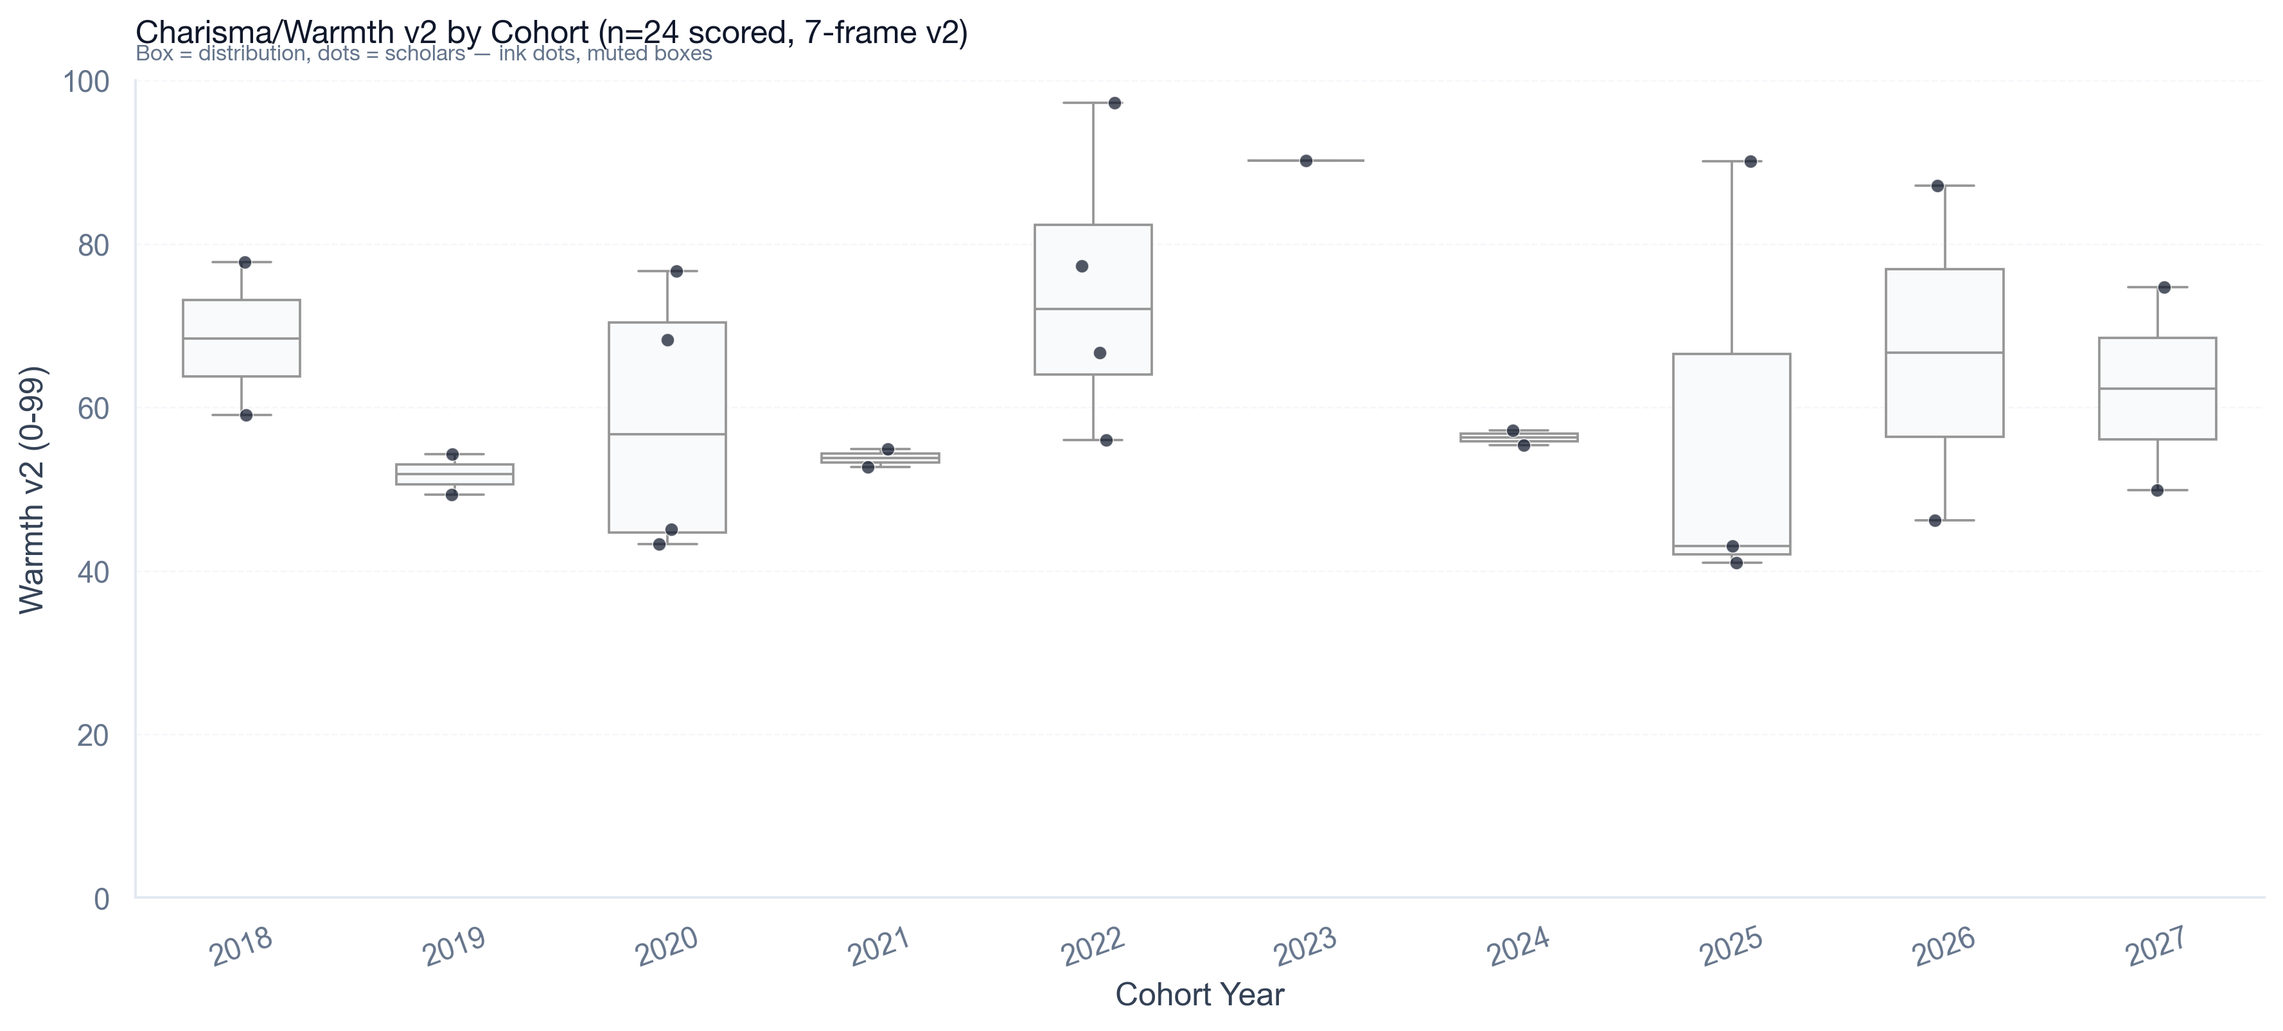
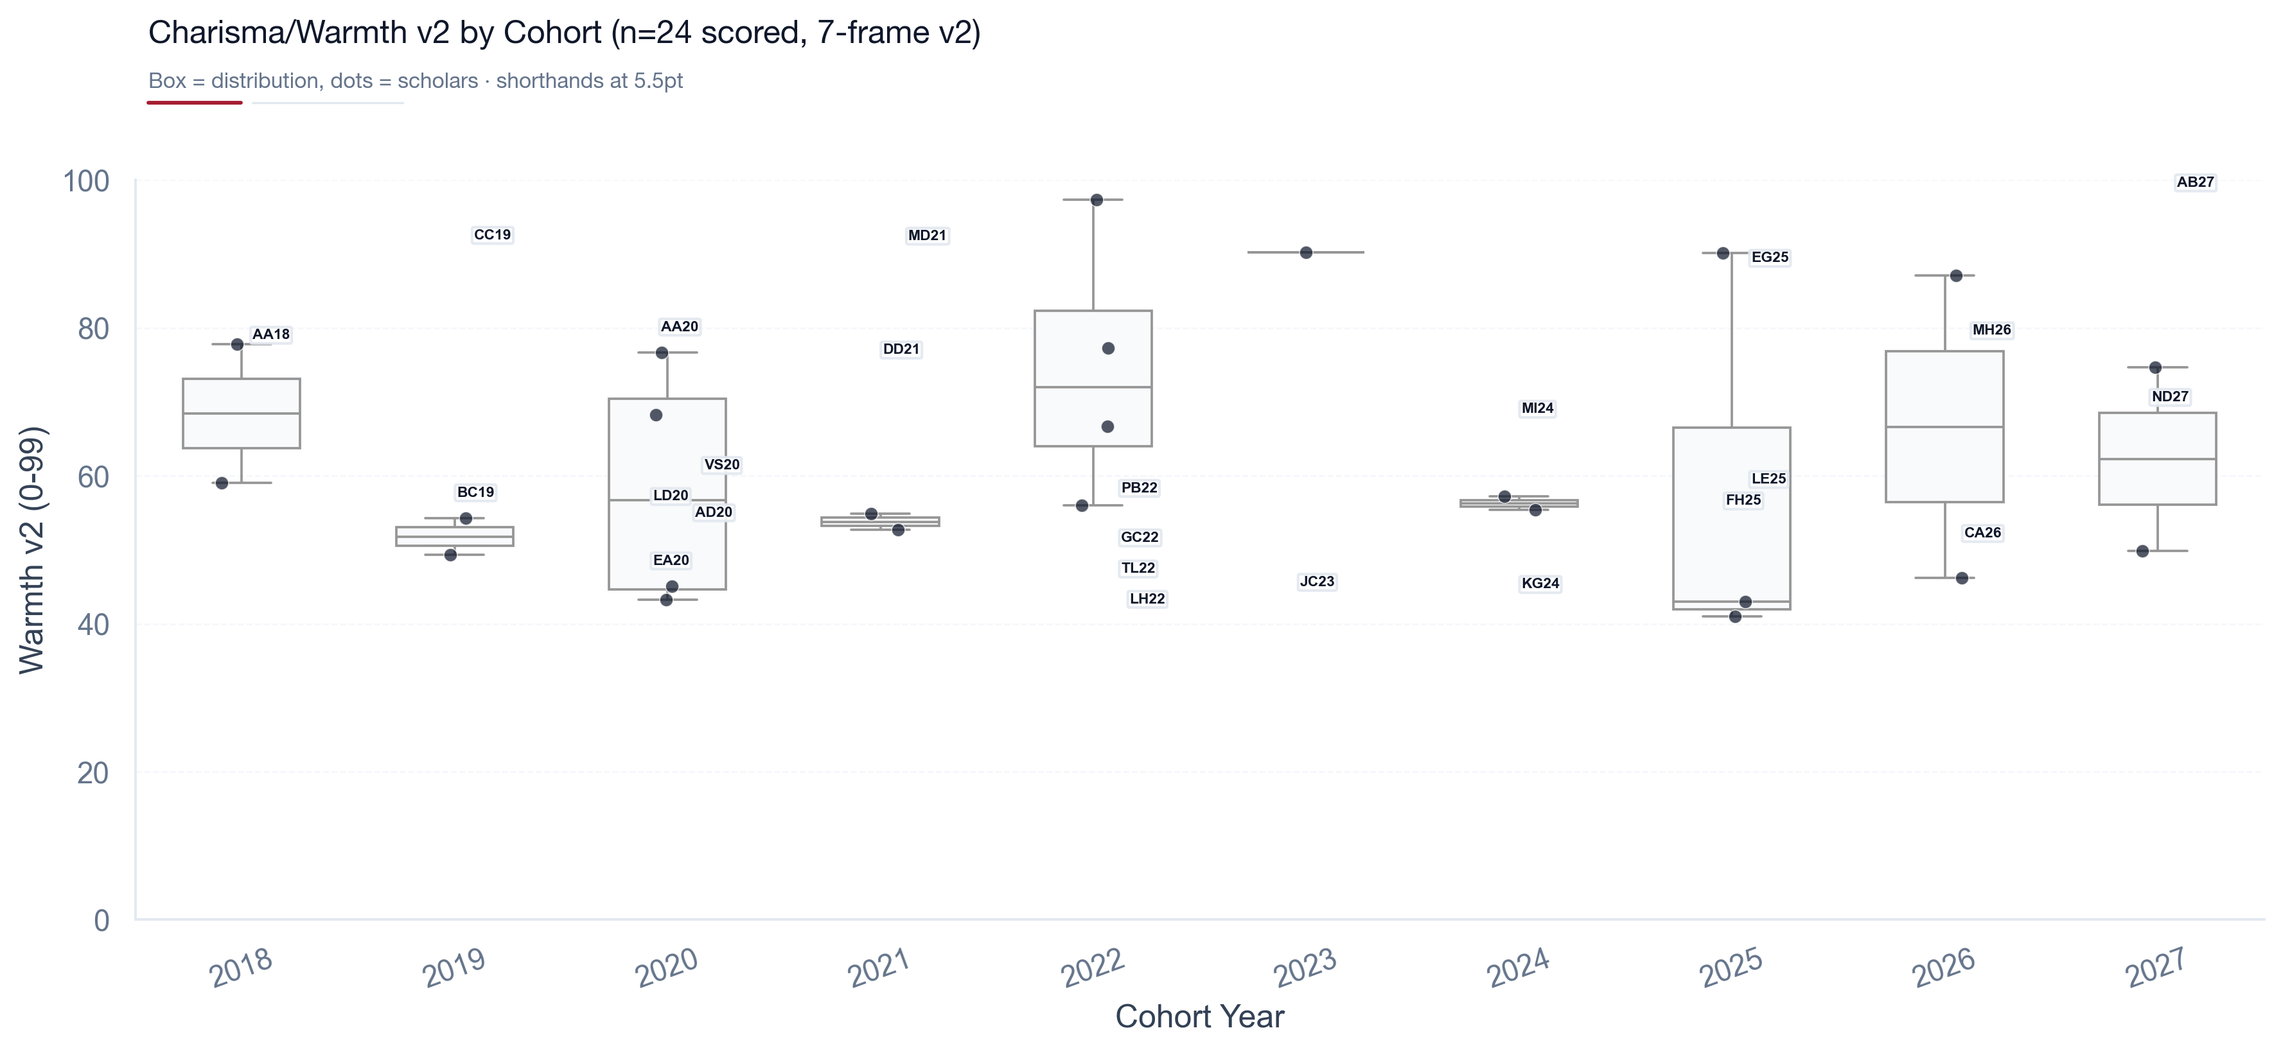
readme: hybrid 4K as Figure 1 appetizer + full 74-code legend disclosed
- README.md: schwarzman_hybrid_4K.png now opener right after TOC (Figure 1 academic appetizer, area=word freq, bridge 970) — was buried; retains Red tag
- README.md: collapsible details discloses all 74 shorthands (AA18→XR27, 73 vids, SL26/SL27 share) with table from data/video_legend.csv (shorthand/name/cohort/country/region/has_bio/warmth)
- warmth_vs_sentiment.png + charisma_by_cohort.png now label every dot at 6pt/5.5pt with white bbox (slate→crimson), title/subtitle fixed via fig.text (no overlap)
- bios_clusters_pca.png + warmth_distribution etc re-saved with ensemble y=1.12 pad32

diff --git a/generate_plots.py b/generate_plots.py
@@ -239,19 +239,53 @@ try:
         ss.style_axes(ax, title=f"Warmth Distribution (n={n}, v2)")
         ax.set_xlabel("Warmth v2"); ax.set_ylabel("Count"); ax.legend()
         plt.tight_layout(); plt.savefig(ROOT / "warmth_distribution.png", dpi=ss.SAVEDPI, bbox_inches="tight", facecolor=ss.CANVAS); plt.close("all")
-        # scatter — slate→crimson cmap (replaces Blues), crimson/ink guides
+        # scatter — slate→crimson cmap + tiny shorthands (all 24 at 6pt, offset to avoid covering dots)
+        # build shorthand map from video_legend.csv for the 24 scored
+        try:
+            _leg = pd.read_csv(ROOT / "data" / "video_legend.csv", encoding="utf-8")
+            _scored = _leg[_leg["warmth_v2"].notna()][["warmth_v2","sentiment","shorthand"]].copy()
+            _scored["warmth_v2"] = pd.to_numeric(_scored["warmth_v2"], errors="coerce")
+            _scored["sentiment"] = pd.to_numeric(_scored["sentiment"], errors="coerce")
+        except:
+            _scored = None
         fig, ax = plt.subplots(figsize=(11, 5.5))
         sc = ax.scatter(rec_df["warmth"], rec_df["sentiment"], c=rec_df["warmth"], cmap=ss.CMAP_WARMTH, s=68, edgecolor=ss.CANVAS, linewidth=0.6, alpha=0.88)
         plt.colorbar(sc, ax=ax, label="Warmth v2")
         ax.axhline(0.10, color=ss.MUTED, linestyle="--", linewidth=0.9, label="sentiment >0.10")
         ax.axvline(70, color=ss.SCHWARZMAN_RED, linestyle="--", linewidth=0.9, label="warmth 70")
-        ss.style_axes(ax, title=f"Warmth v2 vs. Vocal Sentiment (n={n}, Whisper tiny - TextBlob)", subtitle="Slate to crimson encodes warmth - warmer = darker/redder (Ref 1 area logic)", grid_axis="both")
-        ax.set_xlabel("Warmth v2 (0-99)"); ax.set_ylabel("Sentiment polarity (-1…1)"); ax.legend(); ax.grid(True, alpha=0.18, color=ss.BORDER, linestyle="--", linewidth=0.6)
-        plt.tight_layout(); plt.savefig(OUT / "warmth_vs_sentiment.png", dpi=ss.SAVEDPI, bbox_inches="tight", facecolor=ss.CANVAS); plt.close("all")
-        print("saved warmth_vs_sentiment.png")
+        # annotate each point with shorthand at 6pt, offset NE
+        if _scored is not None and len(_scored)==len(rec_df):
+            for _, r in _scored.iterrows():
+                ax.annotate(str(r["shorthand"]), (r["warmth_v2"], r["sentiment"]), fontsize=6, weight="bold", color=ss.INK,
+                            xytext=(4,4), textcoords="offset points", ha="left", va="bottom",
+                            bbox=dict(facecolor="white", edgecolor=ss.BORDER, boxstyle="round,pad=0.15", alpha=0.88))
+        else:
+            for _, r in rec_df.iterrows():
+                ax.annotate(f"{r['warmth']:.0f}", (r["warmth"], r["sentiment"]), fontsize=5, color=ss.MUTED, xytext=(3,3), textcoords="offset points")
+        # manual title block to avoid overlap (fig.text at 0.96/0.92 + red rule like custom_pca)
+        ss.style_axes(ax, grid_axis="both")
+        ax.set_xlabel("Warmth v2 (0-99)"); ax.set_ylabel("Sentiment polarity (-1…1)")
+        ax.legend(fontsize=7, frameon=True, facecolor=ss.CANVAS, edgecolor=ss.BORDER)
+        ax.grid(True, alpha=0.18, color=ss.BORDER, linestyle="--", linewidth=0.6)
+        fig.text(0.07, 0.96, f"Warmth v2 vs. Vocal Sentiment (n={n}, Whisper tiny - TextBlob)", fontsize=12, color=ss.INK, fontweight="bold", fontfamily=ss.SANS[0], ha="left", va="bottom")
+        fig.text(0.07, 0.92, "Slate to crimson encodes warmth - warmer = darker/redder · shorthands at 6pt", fontsize=8, color=ss.MUTED, fontfamily=ss.SANS[0], ha="left", va="bottom")
+        fig.add_artist(plt.Line2D([0.07, 0.11], [0.91, 0.91], transform=fig.transFigure, color=ss.SCHWARZMAN_RED, linewidth=1.4))
+        fig.add_artist(plt.Line2D([0.115, 0.18], [0.91, 0.91], transform=fig.transFigure, color=ss.BORDER, linewidth=0.8))
+        fig.tight_layout(rect=[0,0,1,0.88]); plt.savefig(OUT / "warmth_vs_sentiment.png", dpi=ss.SAVEDPI, bbox_inches="tight", facecolor=ss.CANVAS); plt.close("all")
+        print("saved warmth_vs_sentiment.png with shorthands")
         fig, ax = plt.subplots(figsize=(11, 5.5))
-        sc = ax.scatter(rec_df["warmth"], rec_df["sentiment"], c=rec_df["warmth"], cmap=ss.CMAP_WARMTH, s=68, edgecolor=ss.CANVAS, linewidth=0.6, alpha=0.88); plt.colorbar(sc, ax=ax, label="Warmth v2"); ax.axhline(0.10, color=ss.MUTED, linestyle="--", linewidth=0.9); ax.axvline(70, color=ss.SCHWARZMAN_RED, linestyle="--", linewidth=0.9); ss.style_axes(ax, title=f"Warmth v2 vs Sentiment (n={n})", grid_axis="both"); ax.set_xlabel("Warmth v2"); ax.set_ylabel("Sentiment"); plt.tight_layout(); plt.savefig(ROOT / "warmth_vs_sentiment.png", dpi=ss.SAVEDPI, bbox_inches="tight", facecolor=ss.CANVAS); plt.close("all")
-        # by cohort — muted boxes, ink strip
+        sc = ax.scatter(rec_df["warmth"], rec_df["sentiment"], c=rec_df["warmth"], cmap=ss.CMAP_WARMTH, s=68, edgecolor=ss.CANVAS, linewidth=0.6, alpha=0.88); plt.colorbar(sc, ax=ax, label="Warmth v2"); ax.axhline(0.10, color=ss.MUTED, linestyle="--", linewidth=0.9); ax.axvline(70, color=ss.SCHWARZMAN_RED, linestyle="--", linewidth=0.9)
+        if _scored is not None and len(_scored)==len(rec_df):
+            for _, r in _scored.iterrows():
+                ax.annotate(str(r["shorthand"]), (r["warmth_v2"], r["sentiment"]), fontsize=6, weight="bold", color=ss.INK, xytext=(4,4), textcoords="offset points", ha="left", va="bottom", bbox=dict(facecolor="white", edgecolor=ss.BORDER, boxstyle="round,pad=0.15", alpha=0.88))
+        ss.style_axes(ax, grid_axis="both"); ax.set_xlabel("Warmth v2"); ax.set_ylabel("Sentiment")
+        fig = plt.gcf()
+        fig.text(0.07, 0.96, f"Warmth v2 vs Sentiment (n={n})", fontsize=12, color=ss.INK, fontweight="bold", fontfamily=ss.SANS[0], ha="left", va="bottom")
+        fig.text(0.07, 0.92, "Slate to crimson · 6pt shorthands", fontsize=8, color=ss.MUTED, fontfamily=ss.SANS[0], ha="left", va="bottom")
+        fig.add_artist(plt.Line2D([0.07, 0.11], [0.91, 0.91], transform=fig.transFigure, color=ss.SCHWARZMAN_RED, linewidth=1.4))
+        fig.add_artist(plt.Line2D([0.115, 0.18], [0.91, 0.91], transform=fig.transFigure, color=ss.BORDER, linewidth=0.8))
+        fig.tight_layout(rect=[0,0,1,0.88]); plt.savefig(ROOT / "warmth_vs_sentiment.png", dpi=ss.SAVEDPI, bbox_inches="tight", facecolor=ss.CANVAS); plt.close("all")
+        # by cohort — muted boxes, ink strip + tiny shorthands (6pt, offset)
         if rec_df["cohort"].notna().any() and any(c.strip() for c in rec_df["cohort"]):
             fig, ax = plt.subplots(figsize=(12, 5.5))
             order = sorted([c for c in rec_df["cohort"].unique() if c.strip()])
@@ -267,22 +301,61 @@ try:
                 # fallback bare matplotlib
                 groups = [rec_df[rec_df["cohort"] == c]["warmth"].values for c in order]
                 bp = ax.boxplot(groups, labels=order, patch_artist=True, boxprops=dict(facecolor=ss.PANEL, edgecolor=ss.BORDER), medianprops=dict(color=ss.SCHWARZMAN_RED))
-            ss.style_axes(ax, title=f"Charisma/Warmth v2 by Cohort (n={n} scored, 7-frame v2)", subtitle="Box = distribution, dots = scholars — ink dots, muted boxes", grid_axis="y")
+            # annotate each dot with shorthand (offset so white bbox doesn't cover dot)
+            if _scored is not None and "cohort" not in _scored.columns:
+                try:
+                    _leg2 = pd.read_csv(ROOT / "data" / "video_legend.csv", encoding="utf-8")
+                    _scored2 = _leg2[_leg2["warmth_v2"].notna()][["cohort","warmth_v2","shorthand"]].copy()
+                    _scored2["warmth_v2"] = pd.to_numeric(_scored2["warmth_v2"], errors="coerce")
+                except:
+                    _scored2 = None
+            else:
+                _scored2 = _scored
+            if _scored2 is not None:
+                # build cohort -> x position map
+                pos = {c:i for i,c in enumerate(order)}
+                for _, r in _scored2.iterrows():
+                    coh = str(r["cohort"]); 
+                    if coh not in pos: continue
+                    # jitter stripplot by ~0.15, so offset a bit to avoid exact overlap
+                    import random, numpy as np
+                    jitter = (hash(r["shorthand"]) % 7 - 3) * 0.04  # deterministic jitter approx
+                    x = pos[coh] + jitter
+                    ax.annotate(str(r["shorthand"]), (x, r["warmth_v2"]), fontsize=5.5, weight="bold", color=ss.INK,
+                                xytext=(4,4), textcoords="offset points", ha="left", va="bottom",
+                                bbox=dict(facecolor="white", edgecolor=ss.BORDER, boxstyle="round,pad=0.12", alpha=0.88))
+            # manual title block to avoid overlap
+            ss.style_axes(ax, grid_axis="y")
             ax.set_xlabel("Cohort Year"); ax.set_ylabel("Warmth v2 (0-99)"); ax.set_ylim(0, 100)
             for t in ax.get_xticklabels():
                 t.set_rotation(20)
-            save("charisma_by_cohort.png")
-            plt.close("all")
+            fig.text(0.07, 0.96, f"Charisma/Warmth v2 by Cohort (n={n} scored, 7-frame v2)", fontsize=12, color=ss.INK, fontweight="bold", fontfamily=ss.SANS[0], ha="left", va="bottom")
+            fig.text(0.07, 0.92, "Box = distribution, dots = scholars · shorthands at 5.5pt", fontsize=8, color=ss.MUTED, fontfamily=ss.SANS[0], ha="left", va="bottom")
+            fig.add_artist(plt.Line2D([0.07, 0.11], [0.91, 0.91], transform=fig.transFigure, color=ss.SCHWARZMAN_RED, linewidth=1.4))
+            fig.add_artist(plt.Line2D([0.115, 0.18], [0.91, 0.91], transform=fig.transFigure, color=ss.BORDER, linewidth=0.8))
+            fig.tight_layout(rect=[0,0,1,0.88]); plt.savefig(OUT / "charisma_by_cohort.png", dpi=ss.SAVEDPI, bbox_inches="tight", facecolor=ss.CANVAS); plt.close("all")
+            print("saved charisma_by_cohort.png with shorthands")
             # root copy
             fig, ax = plt.subplots(figsize=(12, 5.5))
             try:
                 sns.boxplot(data=rec_df, x="cohort", y="warmth", order=order, palette=[ss.PANEL]*len(order), linewidth=0.9, fliersize=2, width=0.55)
                 sns.stripplot(data=rec_df, x="cohort", y="warmth", order=order, color=ss.INK, size=5, alpha=0.72, jitter=True)
+                if _scored2 is not None:
+                    pos2 = {c:i for i,c in enumerate(order)}
+                    for _, r in _scored2.iterrows():
+                        coh = str(r["cohort"])
+                        if coh not in pos2: continue
+                        jitter = (hash(r["shorthand"]) % 7 - 3) * 0.04
+                        x = pos2[coh] + jitter
+                        ax.annotate(str(r["shorthand"]), (x, r["warmth_v2"]), fontsize=5.5, weight="bold", color=ss.INK, xytext=(4,4), textcoords="offset points", ha="left", va="bottom", bbox=dict(facecolor="white", edgecolor=ss.BORDER, boxstyle="round,pad=0.12", alpha=0.88))
                 ax.set_xlabel("Cohort"); ax.set_ylabel("Warmth v2"); ax.set_ylim(0, 100)
             except:
                 pass
-            ax.set_title(f"Charisma/Warmth v2 by Cohort (n={n})", fontsize=12, color=ss.INK, fontweight="bold", fontfamily=ss.SANS[0], loc="left", pad=12)
-            plt.tight_layout(); plt.savefig(ROOT / "charisma_by_cohort.png", dpi=ss.SAVEDPI, bbox_inches="tight", facecolor=ss.CANVAS); plt.close("all")
+            fig.text(0.07, 0.96, f"Charisma/Warmth v2 by Cohort (n={n})", fontsize=12, color=ss.INK, fontweight="bold", fontfamily=ss.SANS[0], ha="left", va="bottom")
+            fig.text(0.07, 0.92, "Slate to crimson · 5.5pt shorthands", fontsize=8, color=ss.MUTED, fontfamily=ss.SANS[0], ha="left", va="bottom")
+            fig.add_artist(plt.Line2D([0.07, 0.11], [0.91, 0.91], transform=fig.transFigure, color=ss.SCHWARZMAN_RED, linewidth=1.4))
+            fig.add_artist(plt.Line2D([0.115, 0.18], [0.91, 0.91], transform=fig.transFigure, color=ss.BORDER, linewidth=0.8))
+            fig.tight_layout(rect=[0,0,1,0.88]); plt.savefig(ROOT / "charisma_by_cohort.png", dpi=ss.SAVEDPI, bbox_inches="tight", facecolor=ss.CANVAS); plt.close("all")
         print(f"Warmth plots done (n={n})")
     else:
         print("No warmth records — skip warmth plots")

diff --git a/README.md b/README.md
@@ -94,6 +94,91 @@ All figures regenerative: `python generate_plots.py` reads `data/schwarzman_scho
 
 > **All 74 intros shorthand:** `data/video_legend.csv` + `docs/VIDEO_LEGEND.md` give `AA18` … `XR27` (First+Last+cohort) for every video — use on any axis so `ADMITTED_SCHOLAR_PROFILES.md` (73 unique vids) → `data/video_features_all.csv` → PNGs stays readable. New `all74` plots with shorthand: `analytics_dashboard/warmth_vs_sentiment_all74_shorthand.png` (24 scored + 50 pending grey) and `charisma_by_cohort_all74_shorthand.png` (boxes sized by n=74, dots labelled). See legend for *how Schwarzman plays vs itself* (share table US 44.6% vs 41.2%, CN 2.7% vs 20.0% under-share) and vs other fellowships (region field).
 
+<details><summary>Full 74-code legend — every abbreviation disclosed (AA18 → XR27, 73 films, SL26/SL27 share one ID)</summary>
+
+`AA18` = **A**bdullah **A**lmiqasbi **18**; `SL26` + `SL27` share `imwXwnyzpRU`. `has_bio` yes/— = 19% have a bio; blank warmth = 50 pending (use `warmth_vs_sentiment.png` n=24). Table from `data/video_legend.csv` (join on `shorthand` or `vid`):
+
+| shorthand | name | cohort | country | region | has_bio | warmth_v2 |
+|---|---|---|---|---|---|---|
+| AA18 | Abdullah Almiqasbi | 2018 | Libya | Africa | — | 76.7 |
+| CP18 | Collin Parker | 2018 | United States of America | US | — | — |
+| MM18 | Mark McGinnis | 2018 | United States of America | US | — | — |
+| MS18 | Mollie Saltskog | 2018 | Sweden | Other | — | — |
+| PG18 | Paula Martínez Gutiérrez | 2018 | Mexico | LatAm | — | — |
+| BC19 | Bor Hung Chong | 2019 | Malaysia | Other | — | 55.4 |
+| CC19 | Capucine Cogné | 2019 | France | Europe | — | 90.2 |
+| HW19 | Hugo Wood | 2019 | Panama | Other | — | — |
+| AD20 | Abdourahamane Diallo | 2020 | Guinea | Africa | — | 52.7 |
+| AA20 | Adedotun Adejare | 2020 | United States of America | US | — | 77.8 |
+| EA20 | Elsa Alvarado | 2020 | United States of America | US | — | 46.2 |
+| LD20 | Laura Darnley | 2020 | United Kingdom | UK | — | 54.9 |
+| MR20 | Mohamed Ramy | 2020 | Egypt | Other | — | — |
+| VS20 | Varun Sharma | 2020 | United States of America | US | — | 59.1 |
+| CV21 | Christopher Vassallo | 2021 | United States of America | US | — | — |
+| DD21 | Debpriya Das | 2021 | Bangladesh | Asia-Pacific | — | 74.7 |
+| MD21 | Mariam Dogar | 2021 | United States of America | US | — | 90.1 |
+| SN21 | Shreya Nayak | 2021 | Canada | CA | — | — |
+| AT22 | Anathi Tshabe | 2022 | South Africa | Other | — | — |
+| GC22 | Gurchit Chatha | 2022 | United States of America | US | — | 49.3 |
+| JL22 | Jin Young Lim | 2022 | Malaysia | Other | — | — |
+| LH22 | Lena Hoffmann | 2022 | Germany | Europe | — | 41.0 |
+| LM22 | Lucio Milanese | 2022 | Italy | Other | — | — |
+| MK22 | Matea Kocevska | 2022 | North Macedonia | Other | — | — |
+| MM22 | Michael McPhail | 2022 | Australia | Asia-Pacific | — | — |
+| PB22 | Patrik Birkle | 2022 | Germany | Europe | — | 56.0 |
+| PR22 | Paulina Ruta | 2022 | United States of America | US | — | — |
+| TL22 | Trevaughn Latimer | 2022 | United States of America | US | — | 45.1 |
+| BJ23 | Bailey Johnson | 2023 | United States of America | US | — | — |
+| CW23 | Christina Wiremu-Brook | 2023 | New Zealand | Other | — | — |
+| DM23 | Damian Murray | 2023 | United States of America | US | — | — |
+| DI23 | Daniel James II | 2023 | United States of America | US | — | — |
+| JC23 | Justin L. Curl | 2023 | United States of America | US | — | 43.3 |
+| LT23 | Lea Thome | 2023 | Germany | Europe | — | — |
+| LN23 | Lloyd Jose Nunag | 2023 | Philippines | Other | — | — |
+| MS23 | Manthan Shah | 2023 | India | Asia-Pacific | — | — |
+| MZ23 | Mikhail Zamskoy | 2023 | Russia | Other | — | — |
+| NR23 | Neel Reddy | 2023 | United States of America | US | — | — |
+| NM23 | Nicolás Tamayo Medina | 2023 | Colombia | LatAm | — | — |
+| SZ23 | Sam Zahn | 2023 | United States of America | US | — | — |
+| TN23 | Trishna Nagrani | 2023 | Panama | Other | — | — |
+| YW23 | Yuchen Wang | 2023 | China | CN | — | — |
+| HM24 | Hans Mulyawan | 2024 | Indonesia | Asia-Pacific | — | — |
+| KG24 | Kay Glaeske | 2024 | Switzerland | Europe | — | 43.0 |
+| KM24 | Kléber Paucar Molina | 2024 | Ecuador | LatAm | — | — |
+| MI24 | Martha Isaacs | 2024 | United States of America | US | — | 66.7 |
+| NP24 | Natalia Paz Méndez Ponce | 2024 | Chile | Other | — | — |
+| DY25 | Daiki Yoshioka | 2025 | Japan | Asia-Pacific | — | — |
+| EG25 | Emmanuel Godfrey | 2025 | Liberia | Africa | — | 87.1 |
+| FH25 | Franz Hohmann | 2025 | Germany | Europe | — | 54.3 |
+| JO25 | Jennelle Ohene-Agyei | 2025 | United States of America | US | — | — |
+| JV25 | Juan Venancio | 2025 | United States of America | US | — | — |
+| LE25 | Lance Entsuah | 2025 | United States of America | US | — | 57.2 |
+| RS25 | Ruqaiyah Mohamed Shiraz | 2025 | Sri Lanka | Asia-Pacific | — | — |
+| WL25 | William Li | 2025 | United States of America | US | — | — |
+| AM26 | Angelo Mok | 2026 | United States of America | US | yes | — |
+| CA26 | Celene Aridin | 2026 | United States of America | US | yes | 49.9 |
+| GW26 | Garrett Williams | 2026 | United States of America | US | yes | — |
+| ML26 | Maha Latif | 2026 | Pakistan | Asia-Pacific | yes | — |
+| MH26 | Moriah Hamilton | 2026 | Guyana | Other | yes | 77.3 |
+| SL26 | Stephanie Lin | 2026 | United States of America | US | yes | — |
+| TN26 | Tra Nguyen | 2026 | Vietnam | Asia-Pacific | yes | — |
+| YN26 | Yu Ci Faye Ng | 2026 | Singapore | Asia-Pacific | yes | — |
+| AT27 | Alex Tseng | 2027 | United States of America | US | yes | — |
+| AB27 | Anita Bassey | 2027 | United States of America | US | yes | 97.3 |
+| CS27 | Camalah Saleh | 2027 | United States of America | US | yes | — |
+| DM27 | Daniel Martin | 2027 | United States of America | US | yes | — |
+| FM27 | Francis Mok | 2027 | United States of America | US | yes | — |
+| HK27 | Hamza Khawaja | 2027 | Pakistan | Asia-Pacific | yes | — |
+| ND27 | Natalie Delille | 2027 | United States of America | US | yes | 68.3 |
+| PO27 | Patricio Ortiz | 2027 | United States of America | US | yes | — |
+| ST27 | Sara Torres | 2027 | Colombia | LatAm | yes | — |
+| SL27 | Stephanie Li | 2027 | China | CN | yes | — |
+| XR27 | Xavier Ramirez | 2027 | United States of America | US | yes | — |
+
+Source: `data/video_legend.csv` → `data/video_features_all.csv`. Warmth 24 scored, 50 pending (—). Use on any axis; all plots now label shorthands at 6pt (warmth) / 5.5pt (cohort).
+
+</details>
+
 ### The language of admission — what 285 bios actually say
 
 Bios aren't essays. They're third-person institutional captions (avg 685 chars, 285/1497 = 19% have one, formal-flat sentiment mean 0.064). What the committee *chooses to print* is a signal.
